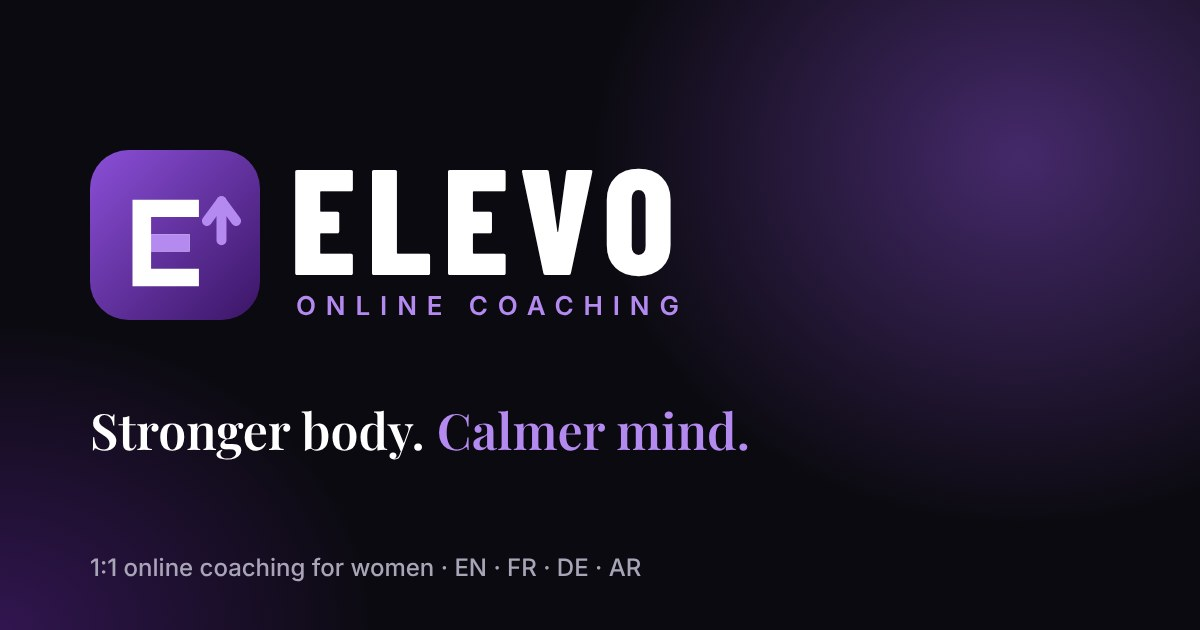
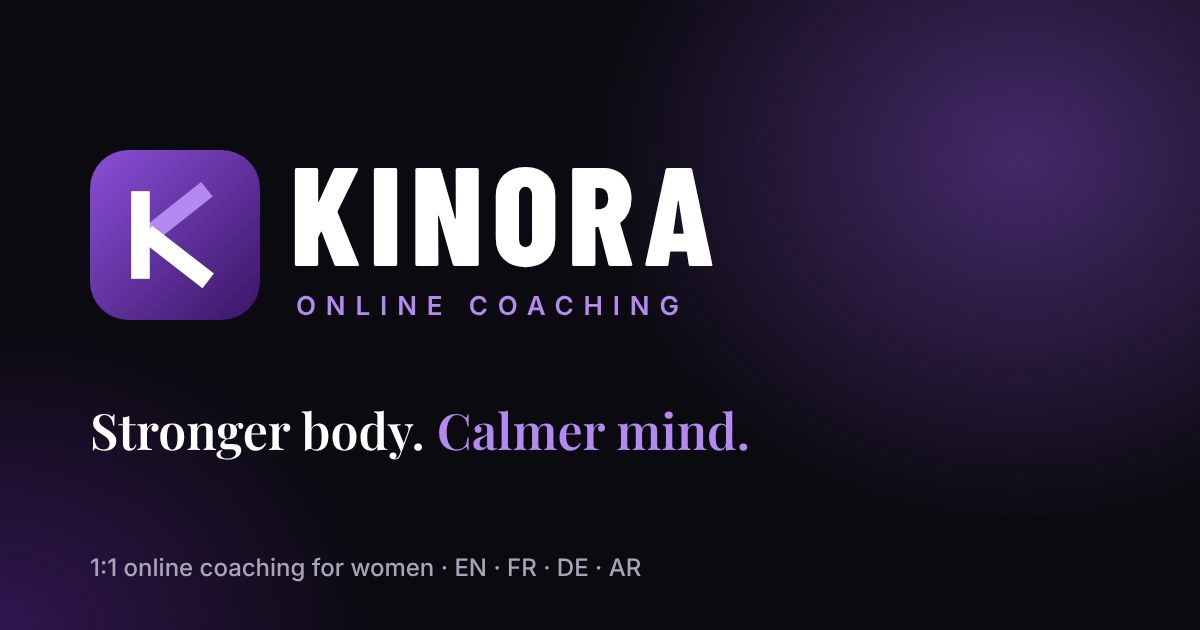
Rename brand from Elevo to Kinora
New K logo, favicon, touch icon and share image in the same purple and
dark palette. Update the name across the home page, shop, legal pages,
404 and README, change the name story to the Greek kinesis (movement),
and rebuild the ebook cover.

Claude-Session: https://claude.ai/code/session_01GZiSLyCBH4nvpXuZnSfhye

Changed region(s): [[0.2467, 0.2413, 0.6167, 0.4524], [0.0925, 0.3016, 0.2158, 0.4825], [0.2467, 0.2714, 0.3083, 0.3317]]

diff --git a/index.html b/index.html
@@ -3,15 +3,15 @@
 <head>
 <meta charset="UTF-8">
 <meta name="viewport" content="width=device-width, initial-scale=1.0">
-<title>Elevo | Online Personal Training & Fitness Coaching for Women</title>
-<meta name="description" content="Elevo – 1:1 online coaching for women aged 27 to 70 with a qualified PE teacher: Yoga & Pilates, Functional Training, Core & Back, Mobility & Stretching, plus full-body and pregnancy workout videos.">
-<!-- SITE ADDRESS: if you use your own domain (e.g. https://elevo.fit/), replace
+<title>Kinora | Online Personal Training & Fitness Coaching for Women</title>
+<meta name="description" content="Kinora – 1:1 online coaching for women aged 27 to 70 with a qualified PE teacher: Yoga & Pilates, Functional Training, Core & Back, Mobility & Stretching, plus full-body and pregnancy workout videos.">
+<!-- SITE ADDRESS: if you use your own domain (e.g. https://kinora.coach/), replace
      https://waelfit96-ui.github.io/Waelfit/ below, in sitemap.xml and in robots.txt -->
 <link rel="canonical" href="https://waelfit96-ui.github.io/Waelfit/">
 <meta property="og:type" content="website">
-<meta property="og:site_name" content="Elevo">
+<meta property="og:site_name" content="Kinora">
 <meta property="og:url" content="https://waelfit96-ui.github.io/Waelfit/">
-<meta property="og:title" content="Elevo | 1:1 Online Coaching for Women">
+<meta property="og:title" content="Kinora | 1:1 Online Coaching for Women">
 <meta property="og:description" content="Yoga & Pilates, Functional Training, Core & Back, Mobility & Stretching and pregnancy workouts with Coach Wael. 1:1 sessions from €20, in EN, FR, DE & AR.">
 <meta property="og:image" content="https://waelfit96-ui.github.io/Waelfit/images/og-image.jpg">
 <meta property="og:image:width" content="1200">
@@ -24,7 +24,7 @@
 {
   "@context": "https://schema.org",
   "@type": "HealthAndBeautyBusiness",
-  "name": "Elevo",
+  "name": "Kinora",
   "alternateName": "WaelFit",
   "description": "1:1 online fitness coaching for women aged 27 to 70: Yoga & Pilates, Functional Training, Core & Back, Mobility & Stretching and pregnancy workouts.",
   "url": "https://waelfit96-ui.github.io/Waelfit/",
@@ -49,7 +49,7 @@
 <style>
   /* ===== Brand tokens – change --accent to restyle the whole site ===== */
   :root{
-    --accent:#8B4FD8;        /* Elevo purple (from logo) */
+    --accent:#8B4FD8;        /* Kinora purple (from logo) */
     --accent-2:#B48AF0;      /* light purple for text on dark */
     --accent-deep:#4A1D7A;   /* deep logo purple */
     --dark:#0B0A10;
@@ -433,9 +433,9 @@
 <!-- Navigation -->
 <header class="nav">
   <div class="container">
-    <a href="#home" class="brand" aria-label="Elevo home">
-      <div class="brand-badge"><img src="images/logo.webp" alt="Elevo logo"></div>
-      <div class="brand-name">ELEVO<span>ONLINE COACHING</span></div>
+    <a href="#home" class="brand" aria-label="Kinora home">
+      <div class="brand-badge"><img src="images/logo.webp" alt="Kinora logo"></div>
+      <div class="brand-name">KINORA<span>ONLINE COACHING</span></div>
     </a>
     <ul class="nav-links" id="navLinks">
       <li><a href="#home" class="active">Home</a></li>
@@ -532,17 +532,17 @@
 <section class="section" id="about" style="padding-top:0">
   <div class="container">
     <div class="about-wrap on-dark reveal">
-      <div class="about-photo"><img src="images/wael-portrait.jpg" alt="Coach Wael, founder of Elevo"></div>
+      <div class="about-photo"><img src="images/wael-portrait.jpg" alt="Coach Wael, founder of Kinora"></div>
       <div class="about-text">
         <span class="eyebrow">About Your Coach</span>
         <h2 class="h-serif">I'm Here to Help You Become Your <em>Best Self.</em></h2>
         <p>I'm Wael — a TUI BLUE fitness instructor and qualified Physical Education teacher. I have been working with clients from all over the world, helping them move better, feel stronger and enjoy training.</p>
-        <p>Elevo comes from the Latin <i>elevo</i>, "I lift up". That is my promise: to lift your strength, your confidence and your energy. I now bring my experience online, coaching women aged 27 to 70 one-to-one. As a teacher, I explain <b style="color:#fff">what</b> we do and <b style="color:#fff">why</b>, and I adapt every session to your body, your energy and your stage of life.</p>
+        <p>Kinora is inspired by the Greek <i>kinesis</i>, "movement". That is my promise: to get you moving with strength, confidence and joy. I now bring my experience online, coaching women aged 27 to 70 one-to-one. As a teacher, I explain <b style="color:#fff">what</b> we do and <b style="color:#fff">why</b>, and I adapt every session to your body, your energy and your stage of life.</p>
         <div class="creds"><span>TUI BLUE Fitness Instructor</span><span>PE Teacher</span><span>Yoga & Pilates</span><span>Mobility</span><span>Pre-natal Fitness</span></div>
         <div class="langs"><b>Languages</b><div class="creds"><span>EN · English</span><span>FR · Français</span><span>DE · Deutsch</span><span>AR · العربية</span></div></div>
         <div class="signature">
           <span class="sig">Wael</span>
-          <div><strong>Coach Wael</strong><small>Founder, Elevo</small></div>
+          <div><strong>Coach Wael</strong><small>Founder, Kinora</small></div>
         </div>
       </div>
       <div class="stats">
@@ -730,7 +730,7 @@
   <div class="container">
     <div class="foot-grid">
       <div>
-        <a href="#home" class="brand"><div class="brand-badge"><img src="images/logo.webp" alt="Elevo logo"></div><div class="brand-name">ELEVO<span>ONLINE COACHING</span></div></a>
+        <a href="#home" class="brand"><div class="brand-badge"><img src="images/logo.webp" alt="Kinora logo"></div><div class="brand-name">KINORA<span>ONLINE COACHING</span></div></a>
         <p style="margin-top:16px">Online coaching for women aged 27 to 70. Stronger body, calmer mind, wherever you are in Europe.</p>
         <div class="socials">
           <a href="https://www.instagram.com/waelfit.01/" target="_blank" rel="noopener" aria-label="Instagram @waelfit.01"><svg><use href="#i-ig"/></svg></a>
@@ -750,7 +750,7 @@
       </div>
     </div>
     <div class="foot-bottom">
-      <span>© <span id="year">2026</span> Elevo. All rights reserved.</span>
+      <span>© <span id="year">2026</span> Kinora. All rights reserved.</span>
       <div><a href="legal.html#privacy">Privacy Policy</a><a href="legal.html#terms">Terms & Conditions</a><a href="legal.html#imprint">Imprint</a></div>
     </div>
   </div>

diff --git a/shop.html b/shop.html
@@ -3,13 +3,13 @@
 <head>
 <meta charset="UTF-8">
 <meta name="viewport" content="width=device-width, initial-scale=1.0">
-<title>Shop | Elevo Ebooks & Workout Programs</title>
-<meta name="description" content="Download Elevo PDF ebooks and workout programs for women aged 27 to 70. Pay once by card or PayPal and get your PDF instantly by email.">
+<title>Shop | Kinora Ebooks & Workout Programs</title>
+<meta name="description" content="Download Kinora PDF ebooks and workout programs for women aged 27 to 70. Pay once by card or PayPal and get your PDF instantly by email.">
 <link rel="canonical" href="https://waelfit96-ui.github.io/Waelfit/shop.html">
 <meta property="og:type" content="website">
-<meta property="og:site_name" content="Elevo">
+<meta property="og:site_name" content="Kinora">
 <meta property="og:url" content="https://waelfit96-ui.github.io/Waelfit/shop.html">
-<meta property="og:title" content="Elevo Shop | Ebooks & Workout Programs">
+<meta property="og:title" content="Kinora Shop | Ebooks & Workout Programs">
 <meta property="og:description" content="PDF ebooks and workout programs by Coach Wael. Pay once, download instantly.">
 <meta property="og:image" content="https://waelfit96-ui.github.io/Waelfit/images/og-image.jpg">
 <meta name="twitter:card" content="summary_large_image">
@@ -213,9 +213,9 @@
 <!-- Navigation -->
 <header class="nav">
   <div class="container">
-    <a href="index.html" class="brand" aria-label="Elevo home">
-      <div class="brand-badge"><img src="images/logo.webp" alt="Elevo logo"></div>
-      <div class="brand-name">ELEVO<span>ONLINE COACHING</span></div>
+    <a href="index.html" class="brand" aria-label="Kinora home">
+      <div class="brand-badge"><img src="images/logo.webp" alt="Kinora logo"></div>
+      <div class="brand-name">KINORA<span>ONLINE COACHING</span></div>
     </a>
     <ul class="nav-links" id="navLinks">
       <li><a href="index.html">Home</a></li>
@@ -231,7 +231,7 @@
 <!-- Shop hero -->
 <section class="shop-hero on-dark">
   <div class="container">
-    <span class="eyebrow">Elevo Shop</span>
+    <span class="eyebrow">Kinora Shop</span>
     <h1 class="h-serif">Train with me, <em>anytime.</em></h1>
     <p>PDF ebooks and step-by-step workout programs I've created for women aged 27 to 70. Pay once, download instantly and keep them forever.</p>
     <div class="perks">
@@ -266,7 +266,7 @@
 
       <article class="product reveal" data-type="program">
         <div class="cover"><img src="images/wael-coaching.jpg" alt="" style="object-position:50% 8%"><span class="tag"><svg><use href="#i-dumbbell"/></svg> Program</span>
-          <div class="book"><small>8-week program</small><b>Full Body at Home</b><i>ELEVO</i></div></div>
+          <div class="book"><small>8-week program</small><b>Full Body at Home</b><i>KINORA</i></div></div>
         <div class="product-body">
           <h3>8-Week Full Body at Home</h3>
           <p>A complete plan to build strength and energy at home, with little or no equipment.</p>
@@ -304,7 +304,7 @@
 
       <article class="product reveal" data-type="program">
         <div class="cover"><img src="images/wael-mobility.webp" alt="" style="object-position:50% 0%"><span class="tag"><svg><use href="#i-dumbbell"/></svg> Program</span>
-          <div class="book"><small>30-day plan</small><b>Mobility & Stretching</b><i>ELEVO</i></div></div>
+          <div class="book"><small>30-day plan</small><b>Mobility & Stretching</b><i>KINORA</i></div></div>
         <div class="product-body">
           <h3>30-Day Mobility & Stretching</h3>
           <p>15 minutes a day to ease stiffness, move without pain and protect your joints.</p>
@@ -322,7 +322,7 @@
 
       <article class="product reveal" data-type="ebook">
         <div class="cover c2"><span class="tag"><svg><use href="#i-book"/></svg> Ebook</span>
-          <div class="book"><small>Ebook</small><b>Strong Core, Healthy Back</b><i>ELEVO</i></div></div>
+          <div class="book"><small>Ebook</small><b>Strong Core, Healthy Back</b><i>KINORA</i></div></div>
         <div class="product-body">
           <h3>Strong Core, Healthy Back</h3>
           <p>Understand back pain and fix it with simple exercises and better daily habits.</p>
@@ -340,7 +340,7 @@
 
       <article class="product reveal" data-type="ebook">
         <div class="cover"><span class="tag"><svg><use href="#i-book"/></svg> Ebook</span>
-          <div class="book"><small>Ebook</small><b>Healthy Eating for Busy Women</b><i>ELEVO</i></div></div>
+          <div class="book"><small>Ebook</small><b>Healthy Eating for Busy Women</b><i>KINORA</i></div></div>
         <div class="product-body">
           <h3>Healthy Eating for Busy Women</h3>
           <p>Simple nutrition basics and quick meals to support your training and your energy.</p>
@@ -358,7 +358,7 @@
 
       <article class="product reveal" data-type="ebook">
         <div class="cover c3"><span class="tag"><svg><use href="#i-book"/></svg> Ebook</span>
-          <div class="book"><small>Ebook</small><b>Yoga & Pilates for Beginners</b><i>ELEVO</i></div></div>
+          <div class="book"><small>Ebook</small><b>Yoga & Pilates for Beginners</b><i>KINORA</i></div></div>
         <div class="product-body">
           <h3>Yoga & Pilates for Beginners</h3>
           <p>Learn the key poses and movements step by step, and build a calm daily practice.</p>
@@ -426,7 +426,7 @@
 
 <footer>
   <div class="container foot-bottom">
-    <span>© <span id="year">2026</span> Elevo. All rights reserved.</span>
+    <span>© <span id="year">2026</span> Kinora. All rights reserved.</span>
     <div><a href="index.html">Home</a><a href="legal.html#privacy">Privacy Policy</a><a href="legal.html#terms">Terms & Conditions</a><a href="legal.html#imprint">Imprint</a></div>
   </div>
 </footer>

diff --git a/legal.html b/legal.html
@@ -3,7 +3,7 @@
 <head>
 <meta charset="UTF-8">
 <meta name="viewport" content="width=device-width, initial-scale=1.0">
-<title>Legal | Elevo</title>
+<title>Legal | Kinora</title>
 <meta name="robots" content="noindex">
 <link rel="icon" type="image/png" href="images/favicon.png">
 <link rel="apple-touch-icon" href="images/apple-touch-icon.png">
@@ -35,7 +35,7 @@
 </head>
 <body>
 <header><div class="in">
-  <a class="brand" href="index.html"><span class="badge"><img src="images/logo.webp" alt="Elevo logo"></span>ELEVO</a>
+  <a class="brand" href="index.html"><span class="badge"><img src="images/logo.webp" alt="Kinora logo"></span>KINORA</a>
   <nav><a href="index.html">← Back to website</a></nav>
 </div></header>
 
@@ -50,7 +50,7 @@
   <section id="imprint">
     <h2>Imprint</h2>
     <div class="box">
-      <p><b>Elevo</b> (formerly WaelFit) – Online Fitness Coaching<br>
+      <p><b>Kinora</b> (formerly WaelFit) – Online Fitness Coaching<br>
       Wael Dridi<br>
       Rua José Tenáglia, 29<br>
       Bela Vista, São Paulo – SP, 01314-030<br>
@@ -67,7 +67,7 @@
     <p>Your privacy matters to me. This policy explains what personal data is collected when you visit this website or contact me, and how it is used, in line with the EU General Data Protection Regulation (GDPR).</p>
 
     <h3>1. Data controller</h3>
-    <p>Wael Dridi, trading as Elevo – contact details in the Imprint above.</p>
+    <p>Wael Dridi, trading as Kinora – contact details in the Imprint above.</p>
 
     <h3>2. Visiting this website</h3>
     <p>When you visit the website, the hosting provider automatically records technical data such as your IP address, browser type and time of access in server log files. This is necessary to deliver the website securely (Art. 6(1)(f) GDPR). This website does not use tracking or advertising cookies.</p>
@@ -104,7 +104,7 @@
     <h2>Terms & Conditions</h2>
 
     <h3>1. Services</h3>
-    <p>Elevo offers online fitness coaching:</p>
+    <p>Kinora offers online fitness coaching:</p>
     <ul>
       <li>Single 1:1 online session – €20 per session</li>
       <li>1:1 Online Coaching (Yoga & Pilates, Functional Training, Core & Back, Mobility & Stretching) – €199 per month</li>
@@ -140,6 +140,6 @@
   </section>
 </main>
 
-<footer>© 2026 Elevo · <a href="index.html" style="color:#B48AF0">Back to website</a></footer>
+<footer>© 2026 Kinora · <a href="index.html" style="color:#B48AF0">Back to website</a></footer>
 </body>
 </html>

diff --git a/404.html b/404.html
@@ -3,7 +3,7 @@
 <head>
 <meta charset="UTF-8">
 <meta name="viewport" content="width=device-width, initial-scale=1.0">
-<title>Page not found | Elevo</title>
+<title>Page not found | Kinora</title>
 <meta name="robots" content="noindex">
 <link rel="icon" type="image/png" href="/Waelfit/images/favicon.png">
 <link href="https://fonts.googleapis.com/css2?family=Barlow+Condensed:wght@800&family=Inter:wght@400;700&display=swap" rel="stylesheet">
@@ -19,7 +19,7 @@
   <main>
     <h1>404</h1>
     <p>Oops, this page doesn't exist. Let's get you back on track.</p>
-    <a href="/Waelfit/">Back to Elevo</a>
+    <a href="/Waelfit/">Back to Kinora</a>
   </main>
 </body>
 </html>

diff --git a/README.md b/README.md
@@ -1,4 +1,4 @@
-# Elevo website
+# Kinora website
 
 1:1 online fitness coaching for women aged 27–70 with Coach Wael.
 
@@ -78,7 +78,7 @@ delete one to remove it, and edit the title, text, bullet points and price insid
 
 ## Brand
 
-The brand is **Elevo** (formerly WaelFit). Logo, favicon and share image are in `images/` (`logo.webp`, `favicon.png`, `apple-touch-icon.png`, `og-image.jpg`).
+The brand is **Kinora** (formerly WaelFit). Logo, favicon and share image are in `images/` (`logo.webp`, `favicon.png`, `apple-touch-icon.png`, `og-image.jpg`).
 Colours are unchanged: purple `#8B4FD8` with dark `#0B0A10`.
 
 Still using the old name until you change them: the email `waelfit01@gmail.com`, the Instagram handle `@waelfit.01`, the YouTube channel and the website address `waelfit96-ui.github.io/Waelfit`.
